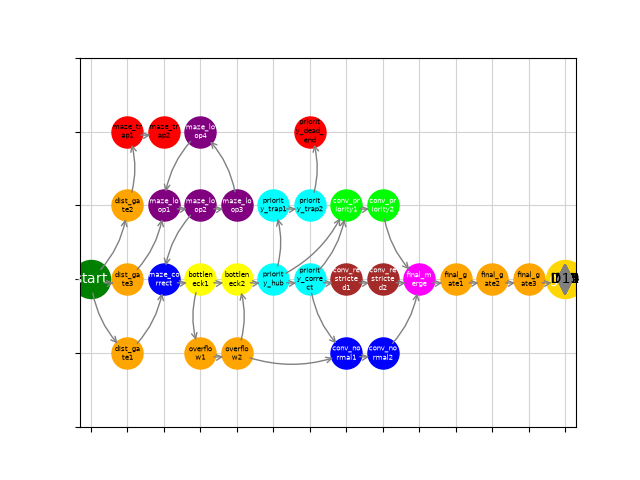
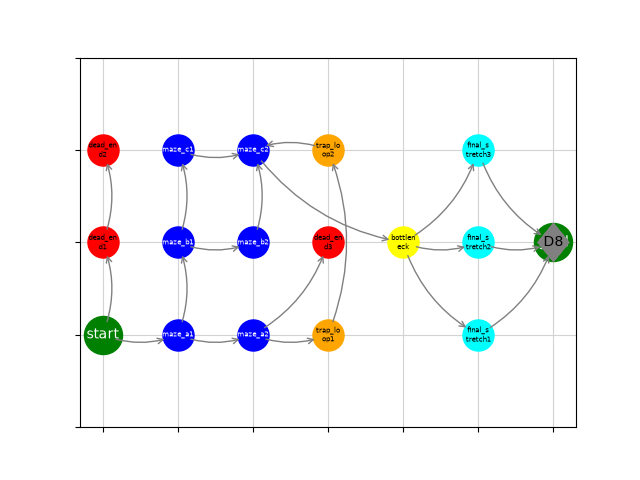
sorted issues with updated pythonn version, need to sort out the readme and rainbow colour

diff --git a/pathfinding.py b/pathfinding.py
@@ -1,3 +1,4 @@
+from __future__ import annotations
 from visualiser import Grid, Node, Connection
 from collections.abc import Generator
 from dataclasses import dataclass

diff --git a/visualiser.py b/visualiser.py
@@ -1,3 +1,4 @@
+from __future__ import annotations
 from typing import cast, Callable
 from parser import DataDict, Hub, Keys
 import time
